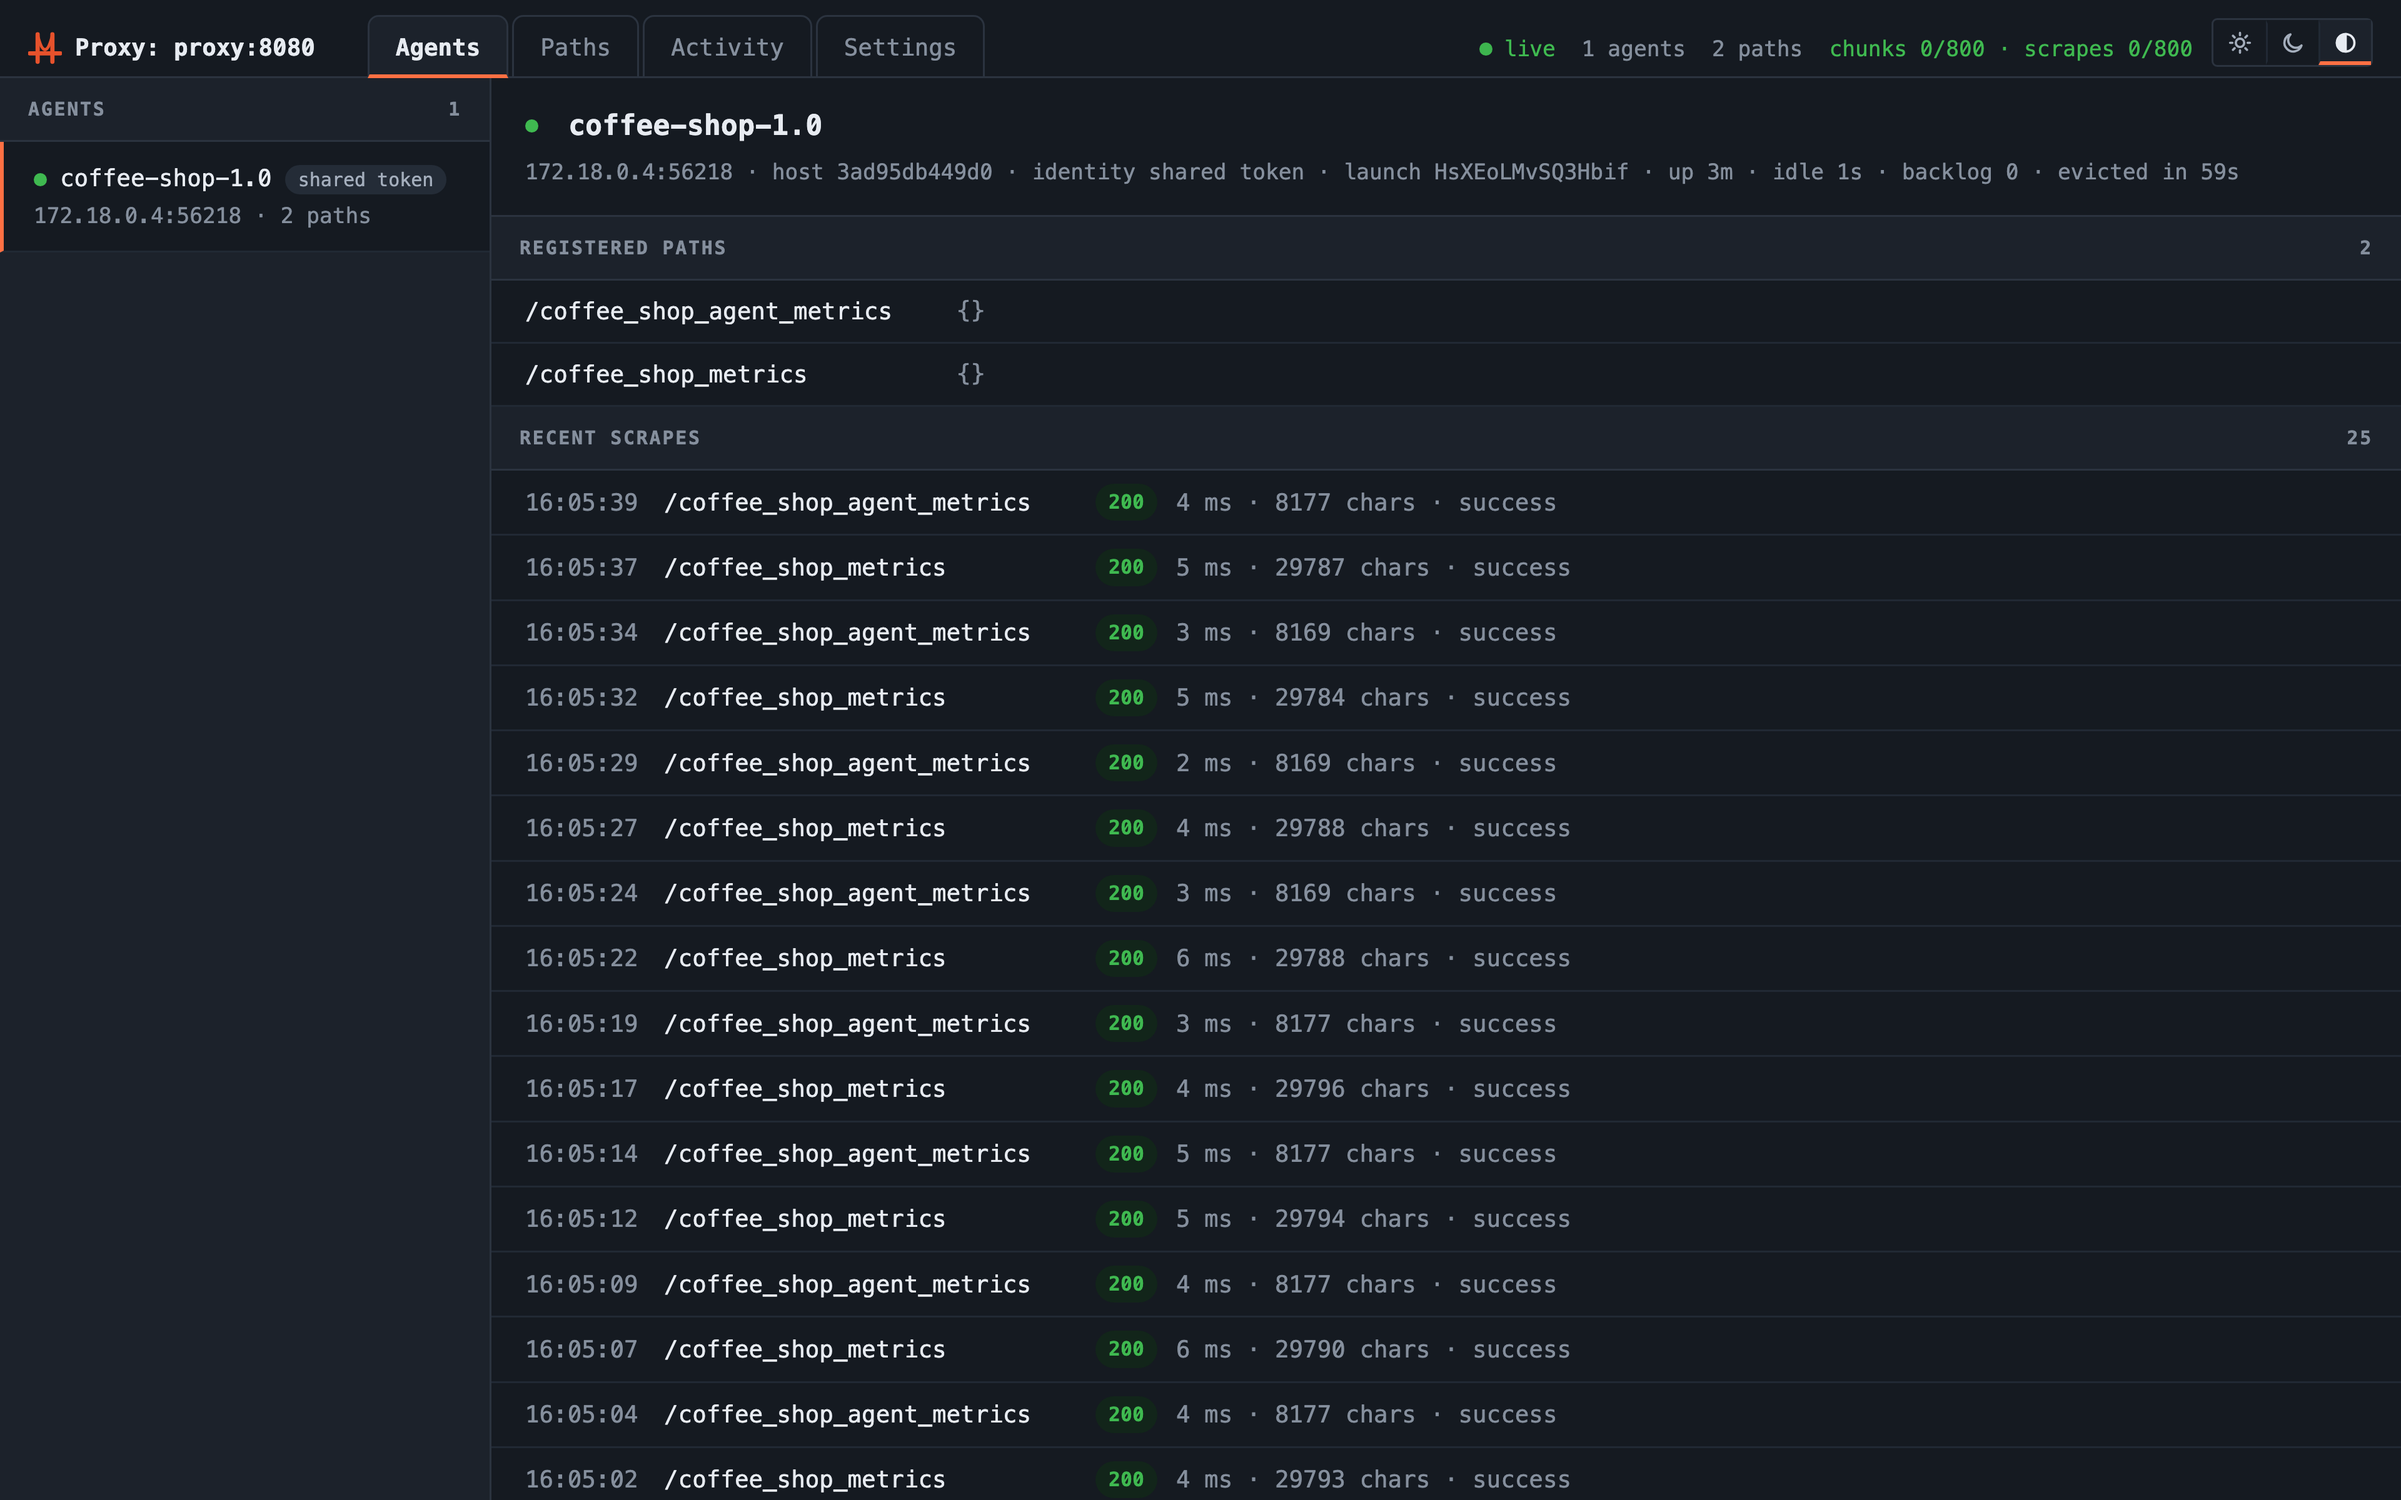
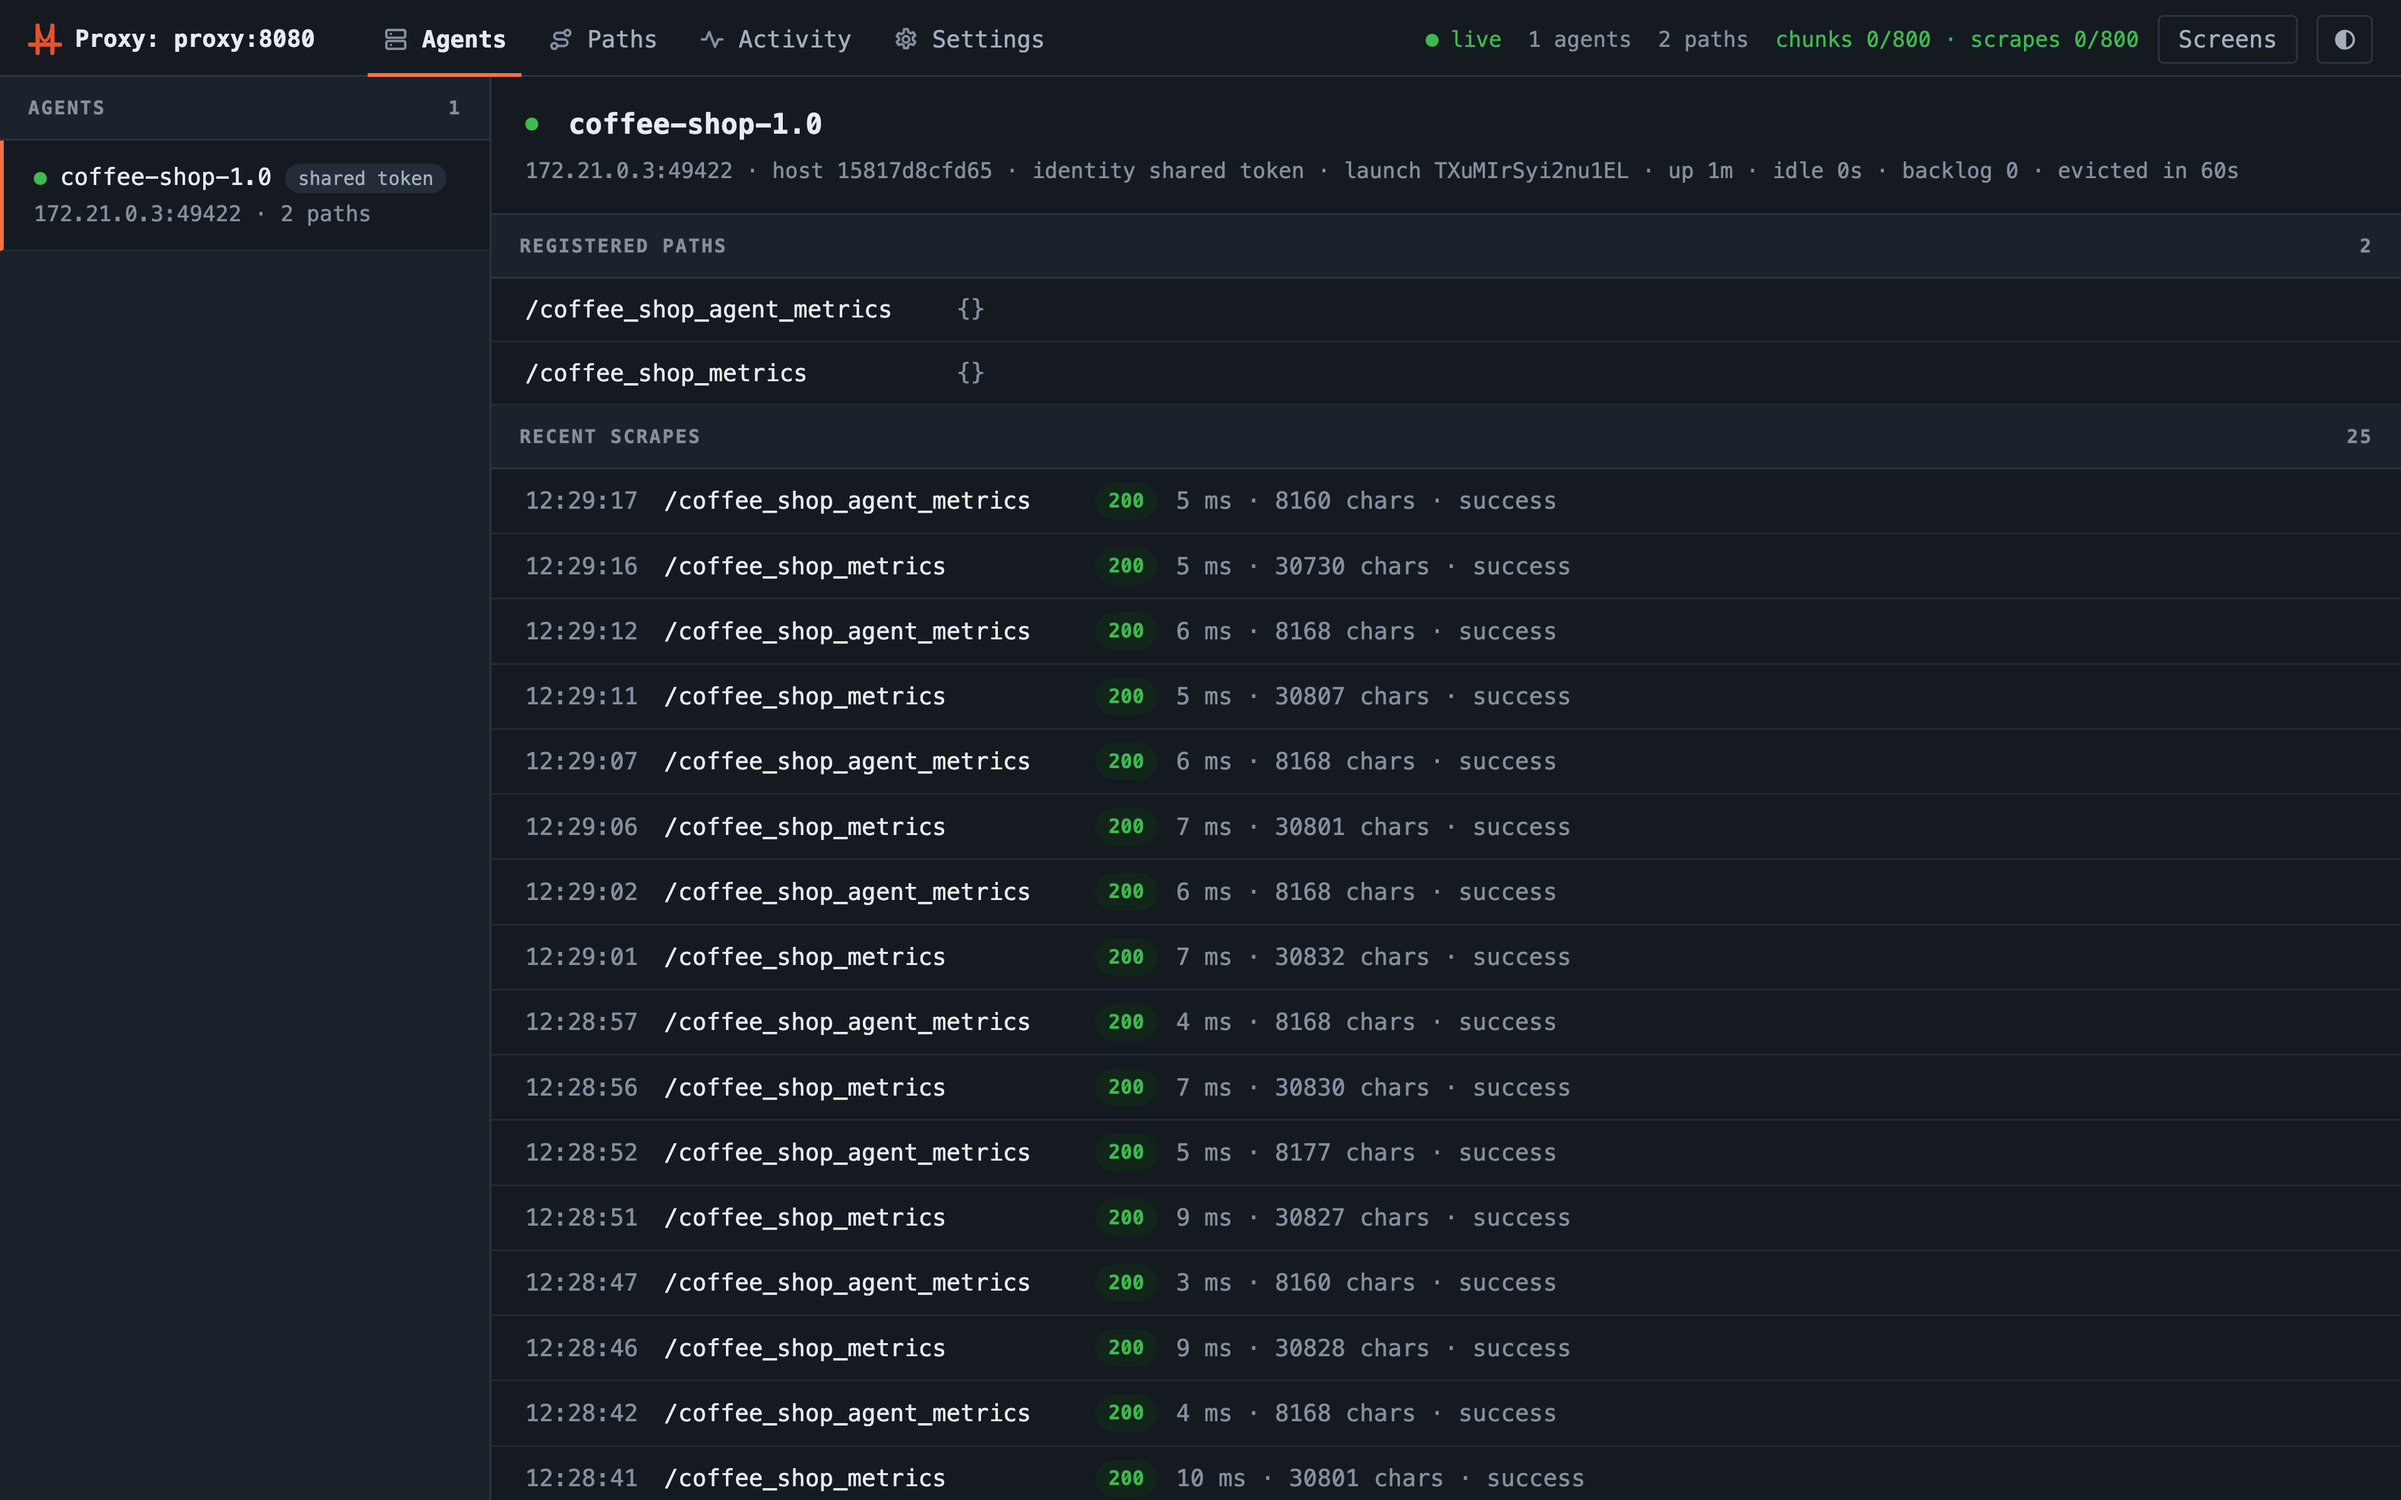
Show the Ktor demo's screens page on its docs page, and retake its screenshots
bin/screenshots.sh takes a screens shot during the rush, with the espresso machine broken: the coffee shop's status
page, without its refresh, beside Grafana, in a 1680x1050 window. The docs page shows it in The Coffee Shop in Grafana.
The other shots are retaken from this checkout.

diff --git a/demos/ktor/README.md b/demos/ktor/README.md
@@ -373,7 +373,7 @@ machine.
 | `grafana/` | The provisioned datasource, dashboard folder, and Coffee Shop dashboard |
 | `Makefile` | The demo's targets: `make up`, `make up-local`, `down`, `status`, `open`, `tour`, and `logs`, which `make help` lists, and `screenshots`, which it leaves out, since it's for maintaining the site |
 | `demo.sh` | Starting, stopping, and the scenarios. It writes the secrets to `docker/.env` the first time the demo starts, and saves there any port moved for `make up`. Its `NEEDS_RELEASE_AFTER` is the newest release that lacks something the demo shows: until the release the docs give is later and its images are on Docker Hub, `make up` builds from this checkout, as `make up-local` does, so set it to the latest release on Docker Hub when the demo comes to use something no release has yet |
-| `bin/screenshots.sh` | The Ktor Demo page's screenshots, in the dark and light themes. `make screenshots` builds and starts the demo, waits three minutes so Grafana's graphs have some history, plays the scenarios, and writes them to `website/prometheus-proxy/docs/images/ktor-demo/` (needs Chrome, ImageMagick 7, and `cwebp`). While checking a change, `SKIP_HISTORY_WAIT=1` skips the wait, and `WAIT_SECS` sets how long each wait for a scene may take before the script fails (default 150) |
+| `bin/screenshots.sh` | The Ktor Demo page's screenshots, the proxy's screens page among them, in the dark and light themes. `make screenshots` builds and starts the demo, waits three minutes so Grafana's graphs have some history, plays the scenarios, and writes them to `website/prometheus-proxy/docs/images/ktor-demo/` (needs Chrome, ImageMagick 7, and `cwebp`). While checking a change, `SKIP_HISTORY_WAIT=1` skips the wait, and `WAIT_SECS` sets how long each wait for a scene may take before the script fails (default 150) |
 
 From the repository root, `make check-rules` validates the Prometheus config and both rule files with promtool,
 `ConfigFileKeysTest` checks every key in `config/proxy.conf` against `config/config.conf`, and CI builds the coffee

diff --git a/website/prometheus-proxy/docs/ktor-demo.md b/website/prometheus-proxy/docs/ktor-demo.md
@@ -214,6 +214,12 @@ the queue, and with the espresso machine broken, about three orders in four fail
 the coffee shop's status page beside it to watch the queue on both:
 <http://localhost:8394/screens#coffee-shop+grafana>
 
+<figure markdown="span">
+  ![The coffee shop's status page beside Grafana, during a rush with the espresso machine broken](images/ktor-demo/screens.webp#only-dark){ loading=lazy }
+  ![The coffee shop's status page beside Grafana, during a rush with the espresso machine broken](images/ktor-demo/screens-light.webp#only-light){ loading=lazy }
+  <figcaption>The proxy's screens page: the coffee shop's status page beside Grafana</figcaption>
+</figure>
+
 ```bash
 ./demo.sh rush            # customers order three times as often
 ./demo.sh baristas 8      # more baristas drain the queue
